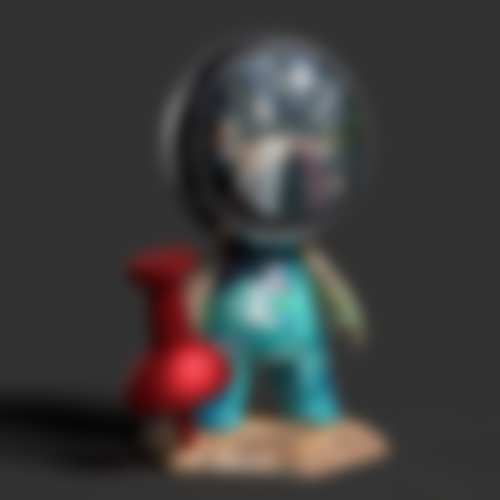
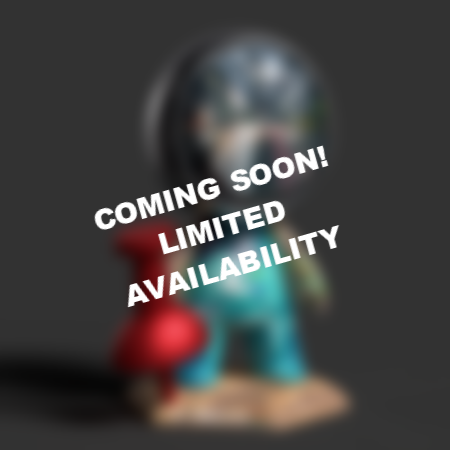
implement new NFT design.

Changed region(s): [[0.1867, 0.3111, 0.7467, 0.6844]]

diff --git a/trustream-v2/dapp/frontend/src/pages/nft.tsx b/trustream-v2/dapp/frontend/src/pages/nft.tsx
@@ -68,49 +68,49 @@ export default function TableReviews() {
 
     const [isloading, setLoading] = useState(true);
 
-    const rows = tableData.filter((item, index) => index == 0).map((row) => {
-        let leftSupply = row.maxSupply - row.totalSupply;
-        let supplyP = row.totalSupply * 100 / Math.max(1, row.maxSupply);
-        let leftP = 100 - supplyP;
+    // const rows = tableData.filter((item, index) => index == 0).map((row) => {
+    //     let leftSupply = row.maxSupply - row.totalSupply;
+    //     let supplyP = row.totalSupply * 100 / Math.max(1, row.maxSupply);
+    //     let leftP = 100 - supplyP;
 
-        return (
-            <>
-                <tr key={row.type}>
-                    <td>{row.type == 'NormalNFT' ? 'Public Pool NFT' : ''}</td>
-                    <td>{row.price}</td>
-                    <td>
-                        {row.maxSupply ?
-                            <>
-                                <Group position="apart">
-                                    <Text size="xs" color="teal" weight={700}>
-                                        {row.totalSupply} sold
-                                    </Text>
-                                    <Text size="xs" color="red" weight={700}>
-                                        {leftSupply} left
-                                    </Text>
-                                </Group>
-                                <Progress
-                                    classNames={{ bar: classes.progressBar }}
-                                    sections={[
-                                        {
-                                            value: supplyP,
-                                            color: theme.colorScheme === 'dark' ? theme.colors.teal[9] : theme.colors.teal[6],
-                                        },
-                                        {
-                                            value: leftP,
-                                            color: theme.colorScheme === 'dark' ? theme.colors.red[9] : theme.colors.red[6],
-                                        },
-                                    ]}
-                                />
-                            </>
-                            : 'no supply'
-                        }
-                    </td>
-                    <td>{row.balance > 0 ? 'Yes' : 'No'}</td>
-                </tr>
-            </>
-        );
-    });
+    //     return (
+    //         <>
+    //             <tr key={row.type}>
+    //                 <td>{row.type == 'NormalNFT' ? 'Public Pool NFT' : ''}</td>
+    //                 <td>{row.price}</td>
+    //                 <td>
+    //                     {row.maxSupply ?
+    //                         <>
+    //                             <Group position="apart">
+    //                                 <Text size="xs" color="teal" weight={700}>
+    //                                     {row.totalSupply} sold
+    //                                 </Text>
+    //                                 <Text size="xs" color="red" weight={700}>
+    //                                     {leftSupply} left
+    //                                 </Text>
+    //                             </Group>
+    //                             <Progress
+    //                                 classNames={{ bar: classes.progressBar }}
+    //                                 sections={[
+    //                                     {
+    //                                         value: supplyP,
+    //                                         color: theme.colorScheme === 'dark' ? theme.colors.teal[9] : theme.colors.teal[6],
+    //                                     },
+    //                                     {
+    //                                         value: leftP,
+    //                                         color: theme.colorScheme === 'dark' ? theme.colors.red[9] : theme.colors.red[6],
+    //                                     },
+    //                                 ]}
+    //                             />
+    //                         </>
+    //                         : 'no supply'
+    //                     }
+    //                 </td>
+    //                 <td>{row.balance > 0 ? 'Yes' : 'No'}</td>
+    //             </tr>
+    //         </>
+    //     );
+    // });
 
     const onStatus = (info) => {
         // console.log('onStatus', info);
@@ -130,7 +130,6 @@ export default function TableReviews() {
             )
             return;
         }
-
 
         if (walletTransferArddress == 0) {
             Swal.fire(
@@ -283,11 +282,20 @@ export default function TableReviews() {
             });
     };
 
+    const getInfo = () => {
+        return tableData.filter((item, index) =>  index == 0).map((row) => {
+            return {
+                price : row.price,
+                left : row.maxSupply - row.totalSupply
+            }
+        })[0];
+    }
+
     return (
         <Layout>
             <NFTStore onStatus={onStatus} />
             {isloading && <Loading />}
-            {!isloading &&
+            {/* {!isloading &&
                 <>
                     <ScrollArea>
                         {!hasNFT() && !hasBalance() &&
@@ -319,37 +327,49 @@ export default function TableReviews() {
                             Buy NFT
                         </Button>
                         <div></div>
-                        {/* <FloatingLabelInput onChange={setWalletAddress} label="Wallet Address" placeholder="Input an wallet address." />
+                        <FloatingLabelInput onChange={setWalletAddress} label="Wallet Address" placeholder="Input an wallet address." />
                         <Button disabled={!hasNFT()} onClick={onTransferNFT} className={classes.gridDivBtn}>
                             Transfer NFT
-                        </Button> */}
+                        </Button>
                     </SimpleGrid>
                 </>
-            }
-
-            {/* <div>MARKETPLACE</div>
-            <SimpleGrid
-                cols={3}
-                breakpoints={[
-                    { maxWidth: 'sm', cols: 1 },
-                ]}
-            >
-                <NFTMinerNode 
-                    title="Testnet Miner"
-                    imgurl="/images/nft/TestNet.png"
-                    price="3 IOTX"
-                    comment="Qty available 250"/>
-                <NFTMinerNode 
-                    title="Public Pool Miner - mainnet"
-                    imgurl="/images/nft/PublicPool.png"
-                    price="xx"
-                    comment="Qty available Limited"/>
-                <NFTMinerNode 
-                    title="Webcam Miner - mainnet"
-                    imgurl="/images/nft/Webcam.png"
-                    price="xx"
-                    comment="Qty available xx"/>
-            </SimpleGrid> */}
+            } */}
+            {!isloading &&
+                <>
+                    {!hasNFT() && !hasBalance() &&
+                        <Button onClick={onClaimTokens} className={classes.gridDivBtn}>
+                            Claim Tokens
+                        </Button>}
+                    <div style={{ paddingLeft: 10 }}>MARKETPLACE</div>
+                    <SimpleGrid
+                        cols={3}
+                        breakpoints={[
+                            { maxWidth: 'xs', cols: 1 },
+                        ]}
+                    >
+                        <NFTMinerNode
+                            title="Testnet Miner"
+                            imgurl="/images/nft/TestNet.png"
+                            price={getInfo().price + " IOTX"}
+                            comment={"Qty available " + getInfo().left}
+                            callback={onBuyNFT}
+                            disabled={hasNFT()} />
+                        <NFTMinerNode
+                            title="Public Pool Miner - mainnet"
+                            imgurl="/images/nft/PublicPool.png"
+                            price="xx"
+                            comment="Qty available Limited"
+                            text="COMING SOON! LIMITED AVAILABILITY"
+                            disabled={true} />
+                        <NFTMinerNode
+                            title="Webcam Miner - mainnet"
+                            imgurl="/images/nft/Webcam.png"
+                            price="xx"
+                            comment="Qty available xx"
+                            text="COMING SOON!"
+                            disabled={true} />
+                    </SimpleGrid>
+                </>}
         </Layout>
     );
 }

diff --git a/trustream-v2/dapp/frontend/src/components/NFTMinerNode/index.tsx b/trustream-v2/dapp/frontend/src/components/NFTMinerNode/index.tsx
@@ -1,10 +1,110 @@
-export default function ({ title, imgurl, price, comment }) {
-    return (
-        <div>
-            <div>{title}</div>
-            <div>
-                <img src={imgurl} width="100%"></img>
+import { createStyles, Button, Modal } from '@mantine/core';
+import Swal from 'sweetalert2'
+import React, {useState} from "react";
+
+const BREAKPOINT = '@media (max-width: 900px)';
+
+const useStyles = createStyles((theme) => ({
+    node: {
+        paddingLeft: 10,
+        paddingRight: 10,
+        cursor: 'pointer'
+    },
+    header: {
+        overflow: 'hidden',
+        whiteSpace: 'nowrap',
+        textOverflow: 'ellipsis'
+    },
+    info: {
+        paddingTop: 10,
+        display: 'flex',
+        justifyContent: 'space-between',
+        alignItems: 'center',
+        // height: 50
+    },
+    info_text: {
+        fontSize: '0.9rem',
+        overflow: 'hidden',
+        whiteSpace: 'nowrap',
+        textOverflow: 'ellipsis',
+        [BREAKPOINT]: {
+            fontSize: '0.7rem',
+            lineHeight: 1.2
+        }
+    },
+    imgtext: {
+        position: 'absolute',
+        left: 0,
+        top: 0
+    },
+    imgdiv: {
+        position: 'relative'
+    },
+    buybtn: {
+        minHeight: '100%',
+        maxHeight: '100%'
+    }
+}));
+
+export default function ({ title, imgurl, price, comment, disabled = false, callback = null, text = "" }) {
+    const { classes, theme } = useStyles();
+    const [ modalOpen, setModalOpen ] = useState(false);
+
+    const onBuy = (e) => {
+        callback();
+        e.stopPropagation();
+    };
+
+    const onView = () => {
+        if (text !== "") {
+            Swal.fire(
+                'Not ready yet',
+                text,
+                'info'
+            )
+        } else {
+            setModalOpen(true);
+        }
+    };
+
+    const renderMinerNode = () => {
+        return (
+            <div className={classes.node} onClick={onView}>
+                <div><p className={classes.header}>{title}</p></div>
+                <div className={classes.imgdiv}>
+                    <img src={imgurl} width="100%"></img>
+                    {/* <div className={classes.imgtext}>{text}</div> */}
+                </div>
+                <div className={classes.info}>
+                    <div className={classes.info_text}>
+                        <div>Price {price}</div>
+                        <div>{comment}</div>
+                    </div>
+                    <div>
+                        <Button disabled={disabled} onClick={onBuy} className={classes.buybtn}>
+                            BUY
+                        </Button>
+                    </div>
+                </div>
             </div>
-        </div>
+        );
+    }
+    
+    return (
+        <>
+            <Modal
+                centered
+                size="sm"
+                overlayColor={theme.colorScheme === 'dark' ? theme.colors.dark[9] : theme.colors.gray[2]}
+                overlayOpacity={0.55}
+                overlayBlur={3} opened={modalOpen} onClose={function (): void {
+                    setModalOpen(false);
+                }}>
+                {renderMinerNode()}
+            </Modal>
+
+            {renderMinerNode()}
+        </>
+
     );
 }

diff --git a/trustream-v2/dapp/frontend/src/components/NFTMinerNode/NFTDetail/index.tsx b/trustream-v2/dapp/frontend/src/components/NFTMinerNode/NFTDetail/index.tsx
@@ -1,0 +1,16 @@
+import { Modal, useMantineTheme } from '@mantine/core';
+
+export default function Demo() {
+    const theme = useMantineTheme();
+
+    return (
+        <Modal
+            overlayColor={theme.colorScheme === 'dark' ? theme.colors.dark[9] : theme.colors.gray[2]}
+            overlayOpacity={0.55}
+            overlayBlur={3} opened={false} onClose={function (): void {
+                throw new Error('Function not implemented.');
+            } }        >
+            {/* Modal content */}
+        </Modal>
+    );
+}
